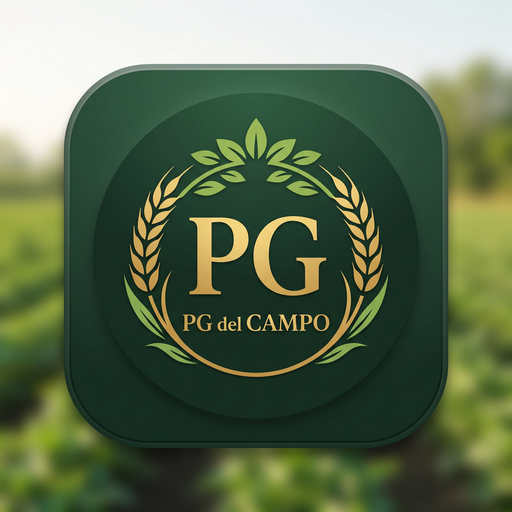
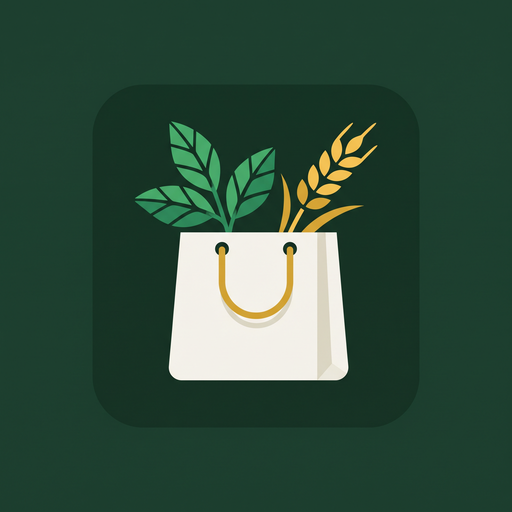
Add files via upload

diff --git a/sw.js b/sw.js
@@ -1,5 +1,8 @@
-const CACHE_NAME = 'tienda-pg-v2';
-const ASSETS = [
+// Tienda PG en Línea — Service Worker v3
+// Estrategia: Network-first con cache fallback
+
+var CACHE_NAME = 'tienda-pg-v3';
+var ASSETS = [
   './',
   './index.html',
   './control-de-fidelidad.html',
@@ -10,29 +13,65 @@ const ASSETS = [
   './apple-touch-icon.png',
   './android-chrome-192x192.png',
   './android-chrome-512x512.png',
-  './manifest.webmanifest',
-  './LogoPGdelCampo.png',
-  './logo-pgdelcampo.png'
+  './android-chrome-192x192-maskable.png',
+  './android-chrome-512x512-maskable.png',
+  './manifest.webmanifest'
 ];
 
-self.addEventListener('install', e => {
-  e.waitUntil(
-    caches.open(CACHE_NAME).then(cache => cache.addAll(ASSETS))
+// Instalar: pre-cachea assets principales
+self.addEventListener('install', function(event) {
+  event.waitUntil(
+    caches.open(CACHE_NAME).then(function(cache) {
+      console.log('[SW] Cacheando assets de Tienda PG en Línea');
+      return cache.addAll(ASSETS);
+    }).then(function() {
+      return self.skipWaiting();
+    })
   );
-  self.skipWaiting();
 });
 
-self.addEventListener('activate', e => {
-  e.waitUntil(
-    caches.keys().then(keys =>
-      Promise.all(keys.filter(k => k !== CACHE_NAME).map(k => caches.delete(k)))
-    )
+// Activar: limpia caches viejas
+self.addEventListener('activate', function(event) {
+  event.waitUntil(
+    caches.keys().then(function(keys) {
+      return Promise.all(
+        keys.filter(function(key) {
+          return key !== CACHE_NAME;
+        }).map(function(key) {
+          console.log('[SW] Eliminando cache vieja:', key);
+          return caches.delete(key);
+        })
+      );
+    }).then(function() {
+      return self.clients.claim();
+    })
   );
-  self.clients.claim();
 });
 
-self.addEventListener('fetch', e => {
-  e.respondWith(
-    caches.match(e.request).then(r => r || fetch(e.request))
+// Fetch: network-first, cache fallback
+self.addEventListener('fetch', function(event) {
+  if (event.request.method !== 'GET') return;
+
+  var url = new URL(event.request.url);
+  if (url.origin !== self.location.origin) return;
+
+  event.respondWith(
+    fetch(event.request).then(function(response) {
+      if (response.ok) {
+        var responseClone = response.clone();
+        caches.open(CACHE_NAME).then(function(cache) {
+          cache.put(event.request, responseClone);
+        });
+      }
+      return response;
+    }).catch(function() {
+      return caches.match(event.request).then(function(cached) {
+        if (cached) return cached;
+        if (event.request.mode === 'navigate') {
+          return caches.match('./index.html');
+        }
+        return new Response('Offline', { status: 503, statusText: 'Sin conexión' });
+      });
+    })
   );
 });

diff --git a/index.html b/index.html
@@ -3,7 +3,7 @@
 <head>
 <meta charset="UTF-8">
 <meta name="viewport" content="width=device-width,initial-scale=1.0,maximum-scale=1.0,user-scalable=no">
-<title>PG del Campo - Del campo a su mesa</title>
+<title>Tienda PG en Línea</title>
 <meta name="theme-color" content="#2E7D32">
 <meta name="description" content="Productos nicaragüenses de calidad: Café, Pinolillo y Pinol. Directamente del campo a su mesa en Jinotepe, Carazo.">
 <link rel="manifest" href="./manifest.webmanifest">
@@ -13,7 +13,10 @@
 <link rel="apple-touch-icon" sizes="180x180" href="./apple-touch-icon.png">
 <meta name="apple-mobile-web-app-capable" content="yes">
 <meta name="apple-mobile-web-app-status-bar-style" content="black-translucent">
-<meta name="apple-mobile-web-app-title" content="PG Campo">
+<meta name="application-name" content="Tienda PG">
+<meta name="msapplication-TileColor" content="#1b382b">
+<meta name="msapplication-TileImage" content="android-chrome-192x192.png">
+<meta name="apple-mobile-web-app-title" content="Tienda PG">
 <link rel="preconnect" href="https://fonts.googleapis.com">
 <link rel="preconnect" href="https://fonts.gstatic.com" crossorigin>
 <link href="https://fonts.googleapis.com/css2?family=Fraunces:opsz,wght@9..144,500;9..144,700;9..144,800&family=Plus+Jakarta+Sans:wght@400;500;600;700;800&family=Poppins:wght@300;400;500;600;700&display=swap" rel="stylesheet">
